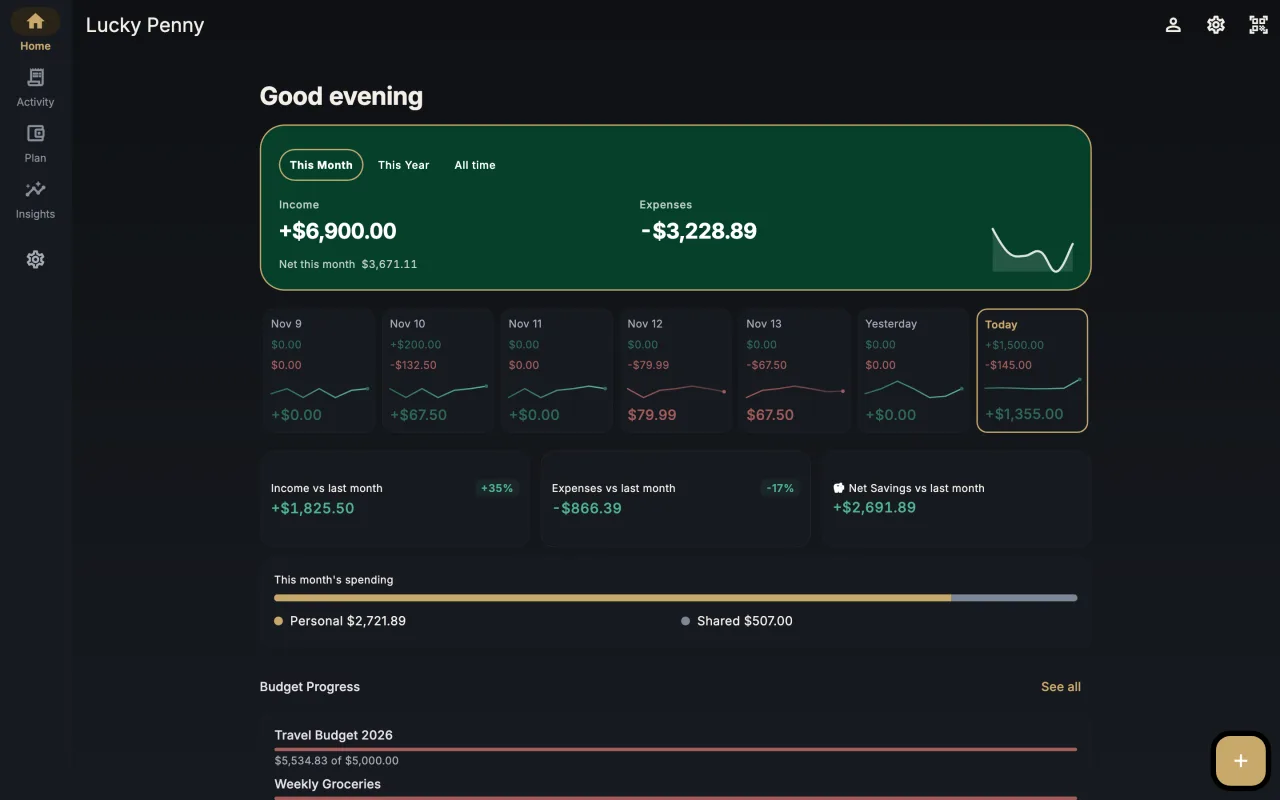
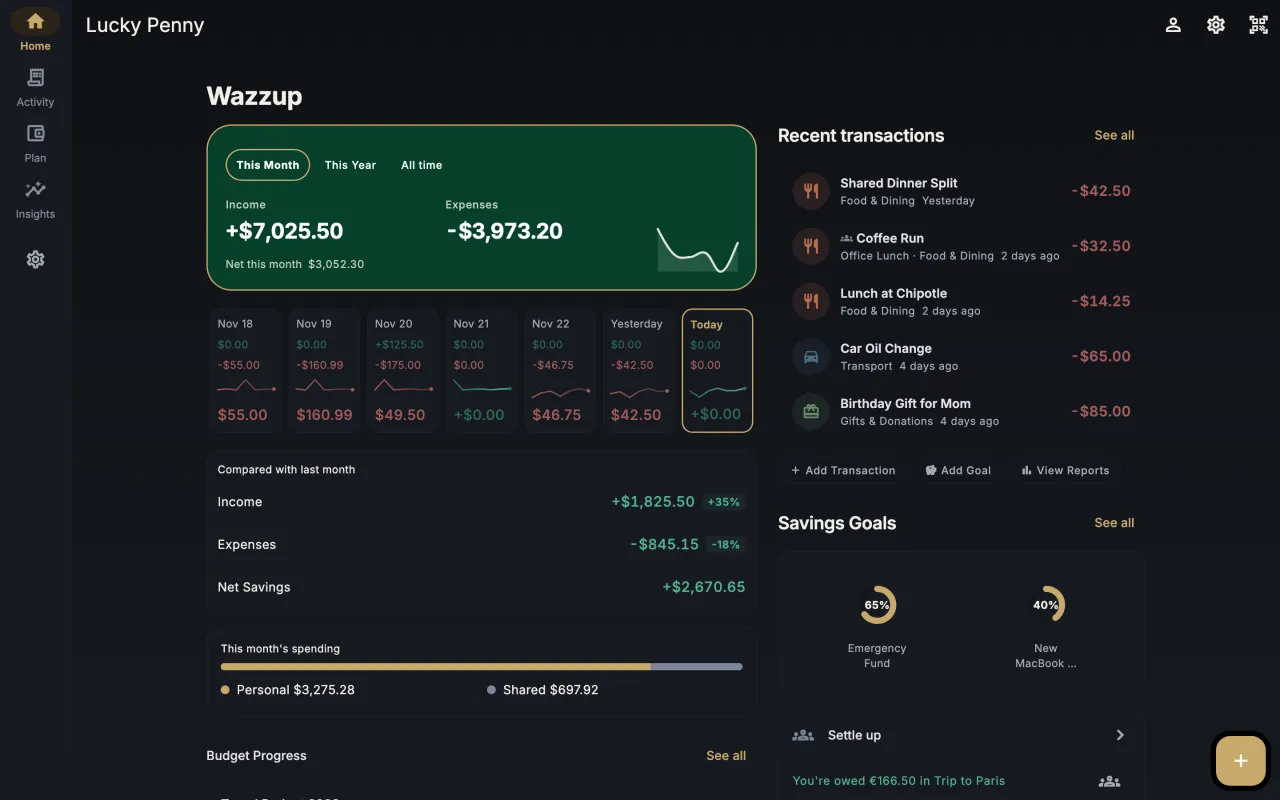
site: current app screenshots, income streams and student budget; correct the import answer (CSV, not Excel)

diff --git a/index.html b/index.html
@@ -559,11 +559,11 @@
 <section id="screenshots" class="shots-section" aria-label="App screenshots">
   <p class="section-label center reveal">In the app</p>
   <div class="shot-strip" data-stagger>
-    <img class="reveal" src="assets/screenshots/1-dashboard.webp" width="640" height="1391" alt="Dashboard: income, expenses and total balance — your money at a glance" />
-    <img class="reveal" src="assets/screenshots/2-quickadd.webp" width="640" height="1391" loading="lazy" decoding="async" alt="New transaction: log an expense, income or investment in seconds" />
-    <img class="reveal" src="assets/screenshots/3-budgets.webp" width="640" height="1391" loading="lazy" decoding="async" alt="Budgets with per-category progress bars that warn you early" />
-    <img class="reveal" src="assets/screenshots/4-analytics.webp" width="640" height="1391" loading="lazy" decoding="async" alt="Analytics: spending habits, trends and forecasts" />
-    <img class="reveal" src="assets/screenshots/5-group.webp" width="640" height="1391" loading="lazy" decoding="async" alt="Group splitting for a trip: members, balances and settle up" />
+    <img class="reveal" src="assets/screenshots/1-dashboard.webp" width="640" height="1391" alt="Home: this month's income and expenses, the last days and a comparison with last month" />
+    <img class="reveal" src="assets/screenshots/2-quickadd.webp" width="640" height="1391" loading="lazy" decoding="async" alt="New transaction: an expense or income, typed, spoken or scanned from a receipt" />
+    <img class="reveal" src="assets/screenshots/3-budgets.webp" width="640" height="1391" loading="lazy" decoding="async" alt="Plan: budgets with progress bars that warn you early" />
+    <img class="reveal" src="assets/screenshots/4-analytics.webp" width="640" height="1391" loading="lazy" decoding="async" alt="Insights: personal and shared spending by month, and spending by group" />
+    <img class="reveal" src="assets/screenshots/5-group.webp" width="640" height="1391" loading="lazy" decoding="async" alt="A shared flat's group: members, balances and settle up" />
     <img class="reveal" src="assets/screenshots/6-privacy.webp" width="640" height="1391" loading="lazy" decoding="async" alt="First launch: all data stays on this device, sign in later to enable cloud sync" />
   </div>
 </section>
@@ -620,6 +620,7 @@
           <li><span class="check">✓</span><span>Amount, category, note, and a photo of the receipt if you have one</span></li>
           <li><span class="check">✓</span><span>Categories that pick up your corrections over time</span></li>
           <li><span class="check">✓</span><span>Repeating bills and 15+ currencies, converted automatically</span></li>
+          <li><span class="check">✓</span><span>Add a salary, rent or pension once, with past jobs and raises, and each pay day is filled in. Greek and Cypriot bonuses included</span></li>
         </ul>
       </div>
       <div class="outcome-shot reveal reveal-right">
@@ -634,7 +635,8 @@
         <ul class="outcome-list">
           <li><span class="check">✓</span><span>Monthly and weekly limits, with a warning before you cross one</span></li>
           <li><span class="check">✓</span><span>Savings goals that work out the monthly amount for you</span></li>
-          <li><span class="check">✓</span><span>A forecast built from what you actually spent, not a guess</span></li>
+          <li><span class="check">✓</span><span>A forecast built from what you actually spent, with a plain line on whether you are ahead of plan</span></li>
+          <li><span class="check">✓</span><span>A student budget, offered when a semester starts</span></li>
         </ul>
       </div>
       <div class="outcome-shot reveal reveal-left">
@@ -653,7 +655,7 @@
         </ul>
       </div>
       <div class="outcome-shot reveal reveal-right">
-        <img src="assets/screenshots/5-group.webp" width="640" height="1391" loading="lazy" decoding="async" alt="A shared trip group with member balances and settle up" />
+        <img src="assets/screenshots/5-group.webp" width="640" height="1391" loading="lazy" decoding="async" alt="A shared flat's group with member balances and settle up" />
       </div>
     </div>
 
@@ -780,7 +782,7 @@
         <span class="faq-cat">Importing and exporting</span>
       </div>
       <h3>Can I import my existing transaction history?</h3>
-      <p>Yes. You can import data from YNAB, Splitwise, Revolut, N26, or Monzo, as well as from any CSV or Excel file. Duplicate entries are detected during import. You can also export your history to CSV, Excel, PDF, or a complete JSON backup at any time.</p>
+      <p>Yes. You can import data from YNAB, Splitwise, Revolut, N26, or Monzo, as well as from any CSV file, including semicolon files and bank statements with lines above the column names. Duplicate entries are detected during import. You can also export your history to CSV, Excel, PDF, or a complete JSON backup at any time.</p>
     </article>
 
     <article class="faq-card reveal">
